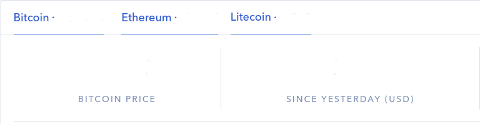
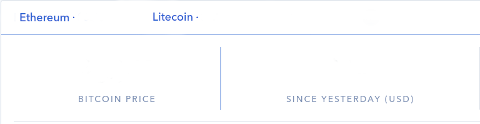
Re-arranged prices and made text bigger

diff --git a/RPi_Dashboard/src/Dashboard.java b/RPi_Dashboard/src/Dashboard.java
@@ -1,6 +1,9 @@
 import java.awt.EventQueue;
 import java.io.BufferedReader;
+import java.io.IOException;
 import java.io.InputStreamReader;
+import java.net.HttpURLConnection;
+import java.net.MalformedURLException;
 import java.net.URL;
 import java.text.NumberFormat;
 import java.util.Timer;
@@ -24,7 +27,6 @@ public class Dashboard {
 	private JLabel lblPrice;
 	private JLabel lblSign;
 	private JLabel lblChange;
-	private JLabel lblPriceBTC;
 	private JLabel lblPriceETH;
 	private JLabel lblPriceLTC;
 	private JLabel lblCryptoBG;
@@ -47,6 +49,42 @@ public class Dashboard {
 			}
 		});
 	}
+	
+	public static String readRSSFeed(String urlAddress){
+        try{
+            URL rssUrl = new URL (urlAddress);
+            HttpURLConnection conn = null;
+            conn = (HttpURLConnection) rssUrl.openConnection();
+            conn.addRequestProperty("User-Agent", "Mozilla/5.0 (Windows; U; Win98; en-US; rv:1.7.2) Gecko/20040803");
+            conn.connect();
+            
+            BufferedReader in = new BufferedReader(new InputStreamReader(conn.getInputStream()));
+            
+            String sourceCode = "";
+            String line;
+            
+            while ((line = in.readLine()) != null) {
+                int titleEndIndex = 0;
+                int titleStartIndex = 0;
+                while (titleStartIndex >= 0) {
+                    titleStartIndex = line.indexOf("<title>", titleEndIndex);
+                    if (titleStartIndex >= 0) {
+                        titleEndIndex = line.indexOf("</title>", titleStartIndex);
+                        sourceCode += line.substring(titleStartIndex + "<title>".length(), titleEndIndex) + "\n";
+                    }
+                }
+            }
+
+            in.close();
+            return sourceCode;
+        } catch (MalformedURLException ue){
+            System.out.println("Malformed URL");
+        } catch (IOException ioe){
+            System.out.println("Something went wrong reading the contents");
+            System.out.println(ioe);
+        }
+        return null;
+    }
 	
 	private static String readUrl(String urlString) throws Exception {
 	    BufferedReader reader = null;
@@ -115,7 +153,7 @@ public class Dashboard {
 	    	    //String strBTCPrice = numberFormat.format(BTC_Price);
 	    	    String strBTCPrice = formatter.format(BTC_Price);
 	    	    lblPrice.setText(strBTCPrice);
-	    	    lblPriceBTC.setText(strBTCPrice);
+	    	    //lblPriceBTC.setText(strBTCPrice);
 	    	    
 	    	    String strETHPrice = formatter.format(ETH_Price);
 	    	    lblPriceETH.setText(strETHPrice);
@@ -151,6 +189,17 @@ public class Dashboard {
 	    	    double dblSpent = 8400.00;
 	    	    double dblProfitValue = (dblBitcoinOwned * BTC_Price) - dblSpent;
 	    	    String strProfitValue = formatter.format(dblProfitValue);
+	    	    
+	    	    //Sets the color of the text depending on whether negative profit or not
+	    	    if(strProfitValue.contains("("))
+	    	    {
+	    	    	lblProfitValue.setForeground(new Color(204, 0, 0));
+	    	    }
+	    	    else
+	    	    {
+	    	    	lblProfitValue.setForeground(new Color(0, 255, 0));
+	    	    }
+	    	    
 	    	    lblProfitValue.setText(strProfitValue);
 	    	    
 	    	    
@@ -167,16 +216,19 @@ public class Dashboard {
 
 	class RefreshMarquee extends TimerTask {
 		public void run() {
-
+			//Sets the marquee string using Reddit news
+			String strNewsStories = readRSSFeed("https://www.reddit.com/r/news.rss");
 			
-			//Sets the marquee string
-			String s = "Tomorrow, and tomorrow, and tomorrow, "
-    	            + "creeps in this petty pace from day to day, "
-    	            + "to the last syllable of recorded time; ... "
-    	            + "It is a tale told by an idiot, full of "
-    	            + "sound and fury signifying nothing.";
-    	    
-    	    Marquee marquee = new Marquee(lbl_addBatch, s, 64);
+			//Replaces linebreaks with " -- "
+			strNewsStories = strNewsStories.replaceAll("\n", " -- ");
+			
+			//Removes non-ascii characters from the string
+			strNewsStories = strNewsStories.replaceAll("[^\\x00-\\x7F]", "");
+			
+			//System.out.print(strNewsStories);
+			
+			//Generates and starts the Marquee
+    	    Marquee marquee = new Marquee(lbl_addBatch, strNewsStories, 64);
             marquee.start();
 		}
 	}
@@ -214,7 +266,7 @@ public class Dashboard {
 		
 		lblSign = new JLabel("");
 		lblSign.setForeground(new Color(0, 255, 0));
-		lblSign.setFont(new Font("Cantarell", Font.BOLD, 25));
+		lblSign.setFont(new Font("Cantarell", Font.BOLD, 30));
 		lblSign.setBounds(270, 61, 20, 23);
 		frmRpiDashboard.getContentPane().add(lblSign);
 		
@@ -224,29 +276,24 @@ public class Dashboard {
 		lblChange.setBounds(221, 61, 259, 23);
 		frmRpiDashboard.getContentPane().add(lblChange);
 		
-		lblPriceBTC = new JLabel("0.00");
-		lblPriceBTC.setFont(new Font("Dialog", Font.BOLD, 10));
-		lblPriceBTC.setBounds(57, 10, 66, 15);
-		frmRpiDashboard.getContentPane().add(lblPriceBTC);
-		
 		lblPriceETH = new JLabel("0.00");
-		lblPriceETH.setFont(new Font("Dialog", Font.BOLD, 10));
-		lblPriceETH.setBounds(180, 10, 66, 15);
+		lblPriceETH.setFont(new Font("Dialog", Font.BOLD, 12));
+		lblPriceETH.setBounds(82, 10, 66, 15);
 		frmRpiDashboard.getContentPane().add(lblPriceETH);
 		
 		lblPriceLTC = new JLabel("0.00");
-		lblPriceLTC.setFont(new Font("Dialog", Font.BOLD, 10));
-		lblPriceLTC.setBounds(281, 10, 66, 15);
+		lblPriceLTC.setFont(new Font("Dialog", Font.BOLD, 12));
+		lblPriceLTC.setBounds(203, 10, 66, 15);
 		frmRpiDashboard.getContentPane().add(lblPriceLTC);
 		
 		JLabel lblProfit = new JLabel("Profit:");
 		lblProfit.setFont(new Font("Dialog", Font.BOLD, 10));
-		lblProfit.setBounds(335, 10, 35, 15);
+		lblProfit.setBounds(270, 11, 35, 15);
 		frmRpiDashboard.getContentPane().add(lblProfit);
 		
 		lblProfitValue = new JLabel("");
-		lblProfitValue.setFont(new Font("Dialog", Font.BOLD, 10));
-		lblProfitValue.setBounds(376, 10, 66, 15);
+		lblProfitValue.setFont(new Font("Dialog", Font.BOLD, 16));
+		lblProfitValue.setBounds(317, 0, 84, 33);
 		frmRpiDashboard.getContentPane().add(lblProfitValue);
 		
 		lblCryptoBG = new JLabel();
